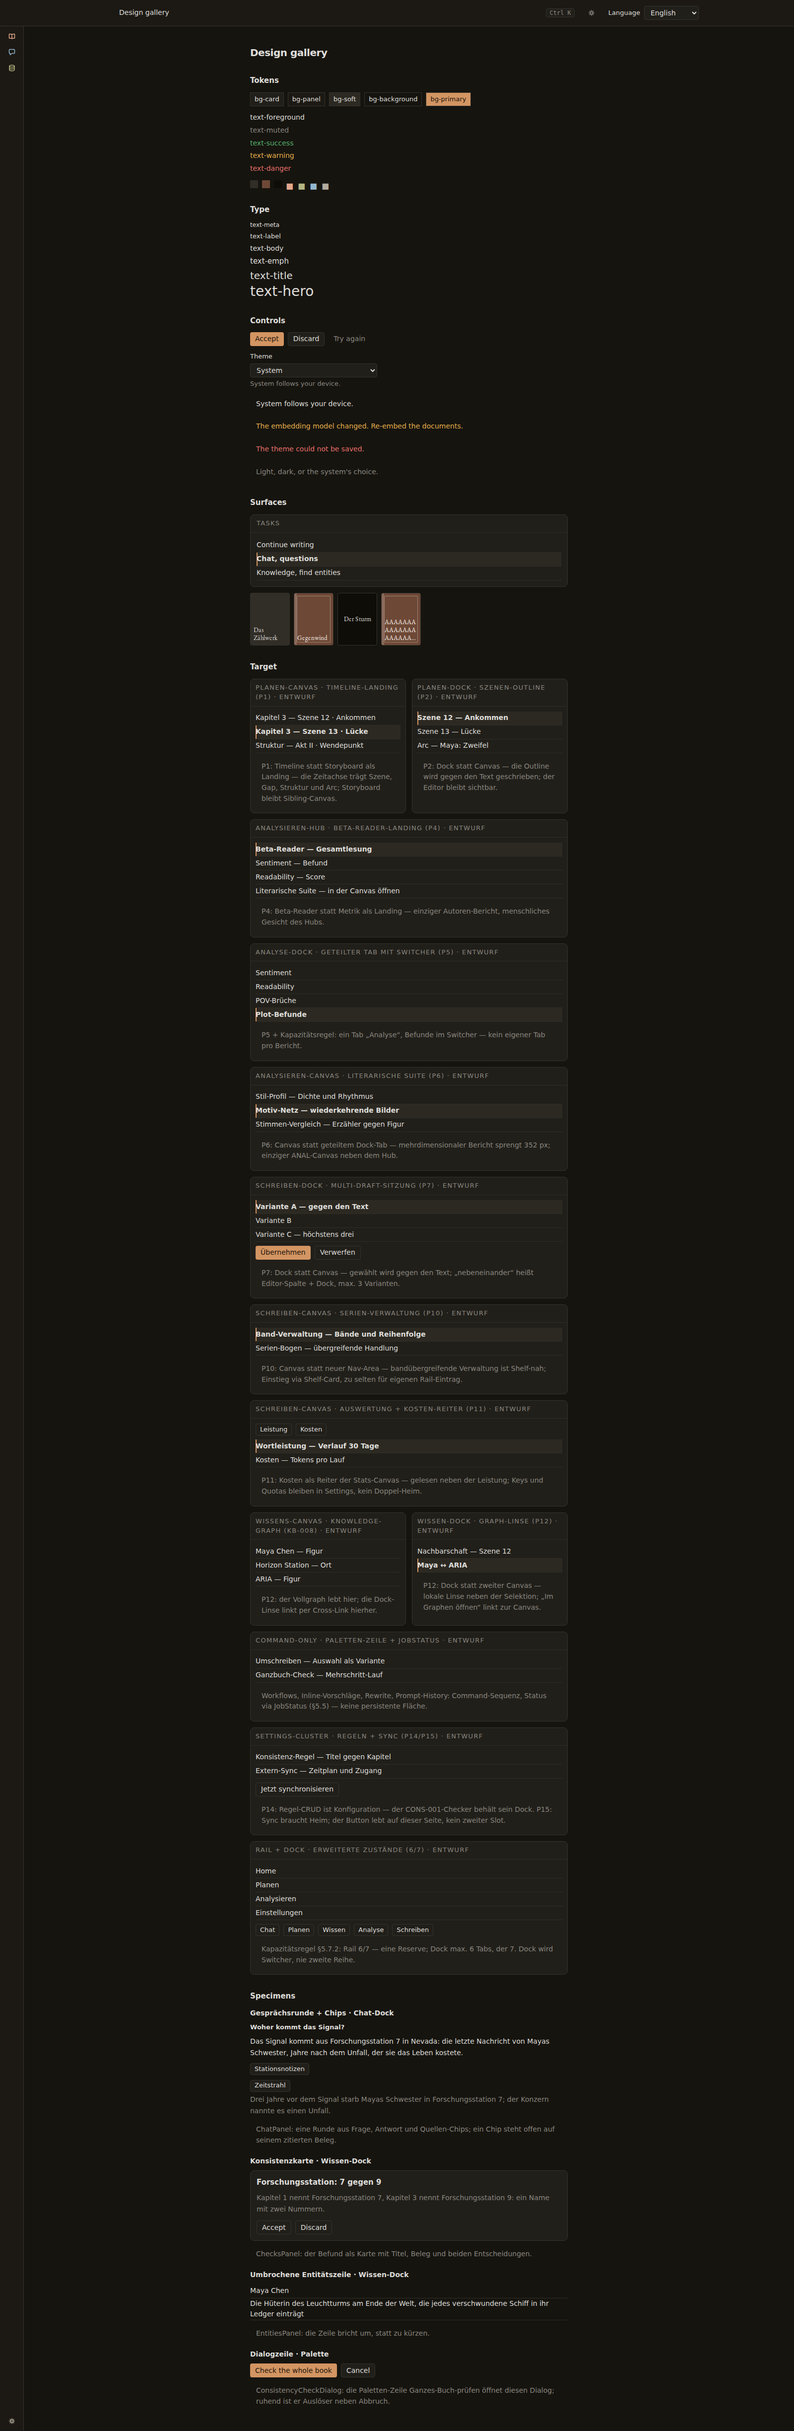
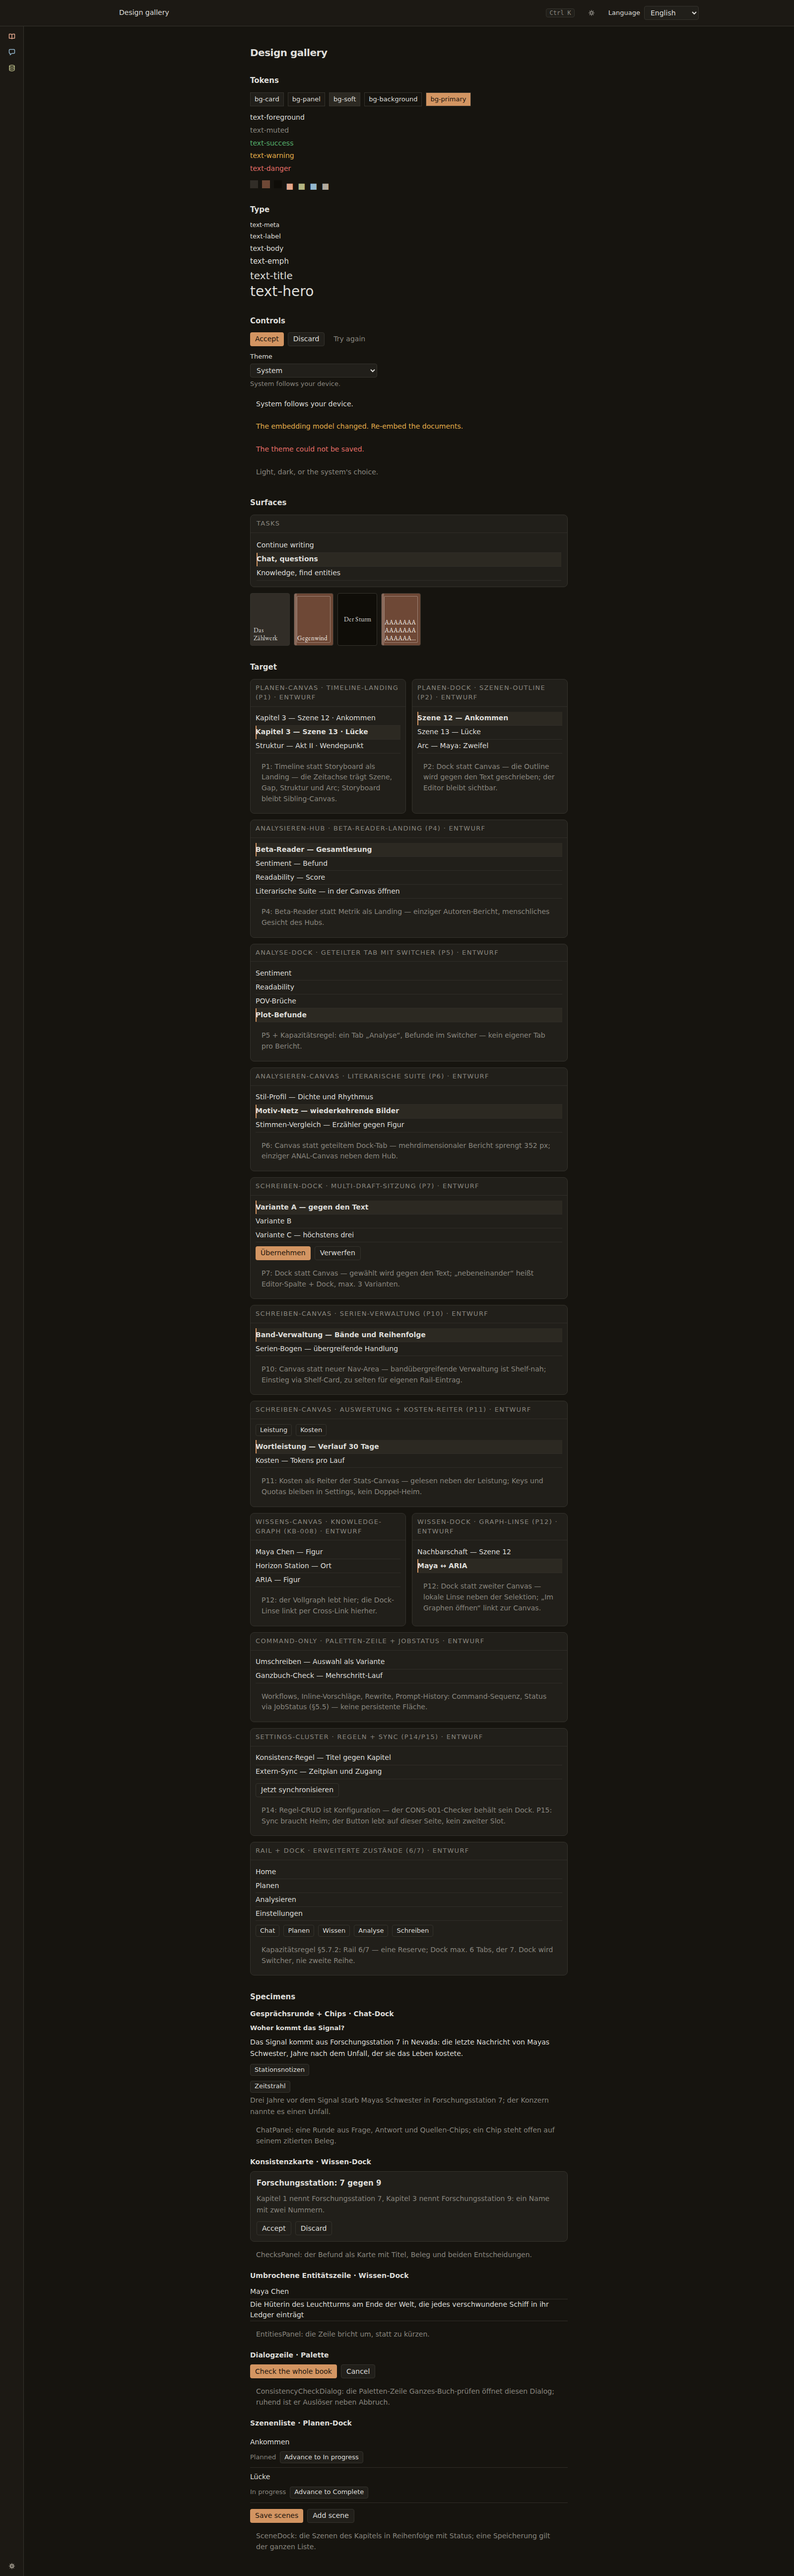
docs(screenshots): the planning dock pinned
User-visible: the design gallery pins the built planning dock — its scene rows with statuses beside the save and add affordances — in light and dark.
Assisted-by: OpenCode (muse-spark-1.3-contributor)

Changed region(s): [[0.3125, 0.0, 0.6875, 1.0], [0.5312, 0.0312, 0.5938, 0.0625], [0.6562, 0.8125, 0.6875, 0.8438]]

diff --git a/app/capabilities/settings/web/DesignGallery.tsx b/app/capabilities/settings/web/DesignGallery.tsx
@@ -37,7 +37,7 @@ import { usePageTitle } from "@shell/lib/pageTitle";
  * The "Specimens" section pins the landed dock and palette states on the
  * real primitives — a conversation turn with its source chips, the
  * consistency card, the wrapped entity row, the palette dialog's button
- * row — inert specimens, never embeds: no handlers, no fetches, no modal
+ * row, the planning scene list — inert specimens, never embeds: no handlers, no fetches, no modal
  * shell. The subsection headings and source notes are documentation in
  * the record's language (German, like the draft titles), the same in
  * every locale; only the section heading itself comes from the catalog.
@@ -603,6 +603,69 @@ export function DesignGallery() {
               ConsistencyCheckDialog: die Paletten-Zeile
               Ganzes-Buch-prüfen öffnet diesen Dialog; ruhend ist er
               Auslöser neben Abbruch.
+            </Notice>
+          </div>
+        </div>
+        <div className="mt-3">
+          <h3 className="text-body font-semibold">Szenenliste · Planen-Dock</h3>
+          {/* The dock's built state: the chapter's scenes in order, each row
+              with its title and status beside the advance it offers, one
+              save for the whole list beside the add. Inert: no status
+              advances, nothing saves, nothing is added. */}
+          <section aria-label={t("planning.panelHeading")} className="mt-2">
+            <ul className="flex flex-col">
+              <li>
+                <Row
+                  as="div"
+                  role="group"
+                  aria-label="Ankommen"
+                  flush
+                  className="h-auto min-h-7 flex-col items-stretch gap-1 py-2"
+                >
+                  <span className="text-body">Ankommen</span>
+                  <div className="flex flex-wrap items-center gap-2">
+                    <span className="text-label text-muted">
+                      {t("planning.status.planned")}
+                    </span>
+                    <Button variant="secondary" size="sm">
+                      {t("planning.advanceStatus", {
+                        status: t("planning.status.in_progress"),
+                      })}
+                    </Button>
+                  </div>
+                </Row>
+              </li>
+              <li>
+                <Row
+                  as="div"
+                  role="group"
+                  aria-label="Lücke"
+                  flush
+                  className="h-auto min-h-7 flex-col items-stretch gap-1 py-2"
+                >
+                  <span className="text-body">Lücke</span>
+                  <div className="flex flex-wrap items-center gap-2">
+                    <span className="text-label text-muted">
+                      {t("planning.status.in_progress")}
+                    </span>
+                    <Button variant="secondary" size="sm">
+                      {t("planning.advanceStatus", {
+                        status: t("planning.status.complete"),
+                      })}
+                    </Button>
+                  </div>
+                </Row>
+              </li>
+            </ul>
+            <div className="mt-3 flex flex-wrap items-center gap-2">
+              <Button variant="primary">{t("planning.save")}</Button>
+              <Button variant="secondary">{t("planning.addScene")}</Button>
+            </div>
+          </section>
+          <div className="mt-2">
+            <Notice tone="quiet">
+              SceneDock: die Szenen des Kapitels in Reihenfolge mit Status;
+              eine Speicherung gilt der ganzen Liste.
             </Notice>
           </div>
         </div>

diff --git a/app/capabilities/settings/web/DesignGallery.test.tsx b/app/capabilities/settings/web/DesignGallery.test.tsx
@@ -60,6 +60,18 @@ describe("DesignGallery", () => {
     expect(screen.getByRole("button", { name: "Check the whole book" })).toBeTruthy();
   });
 
+  it("pins the planning dock specimen", () => {
+    cleanup();
+    render(<DesignGallery />);
+    expect(screen.getByRole("heading", { name: /Szenenliste/ })).toBeTruthy();
+    expect(screen.getByRole("group", { name: "Ankommen" })).toBeTruthy();
+    expect(screen.getByRole("group", { name: "Lücke" })).toBeTruthy();
+    expect(screen.getByText("Planned")).toBeTruthy();
+    expect(screen.getByText("In progress")).toBeTruthy();
+    expect(screen.getByRole("button", { name: "Save scenes" })).toBeTruthy();
+    expect(screen.getByRole("button", { name: "Add scene" })).toBeTruthy();
+  });
+
   it("clamps a 120-character cover title", () => {
     const { container } = render(<DesignGallery />);
     const tile = container.querySelector('[data-cover-tone][data-long-title]');
